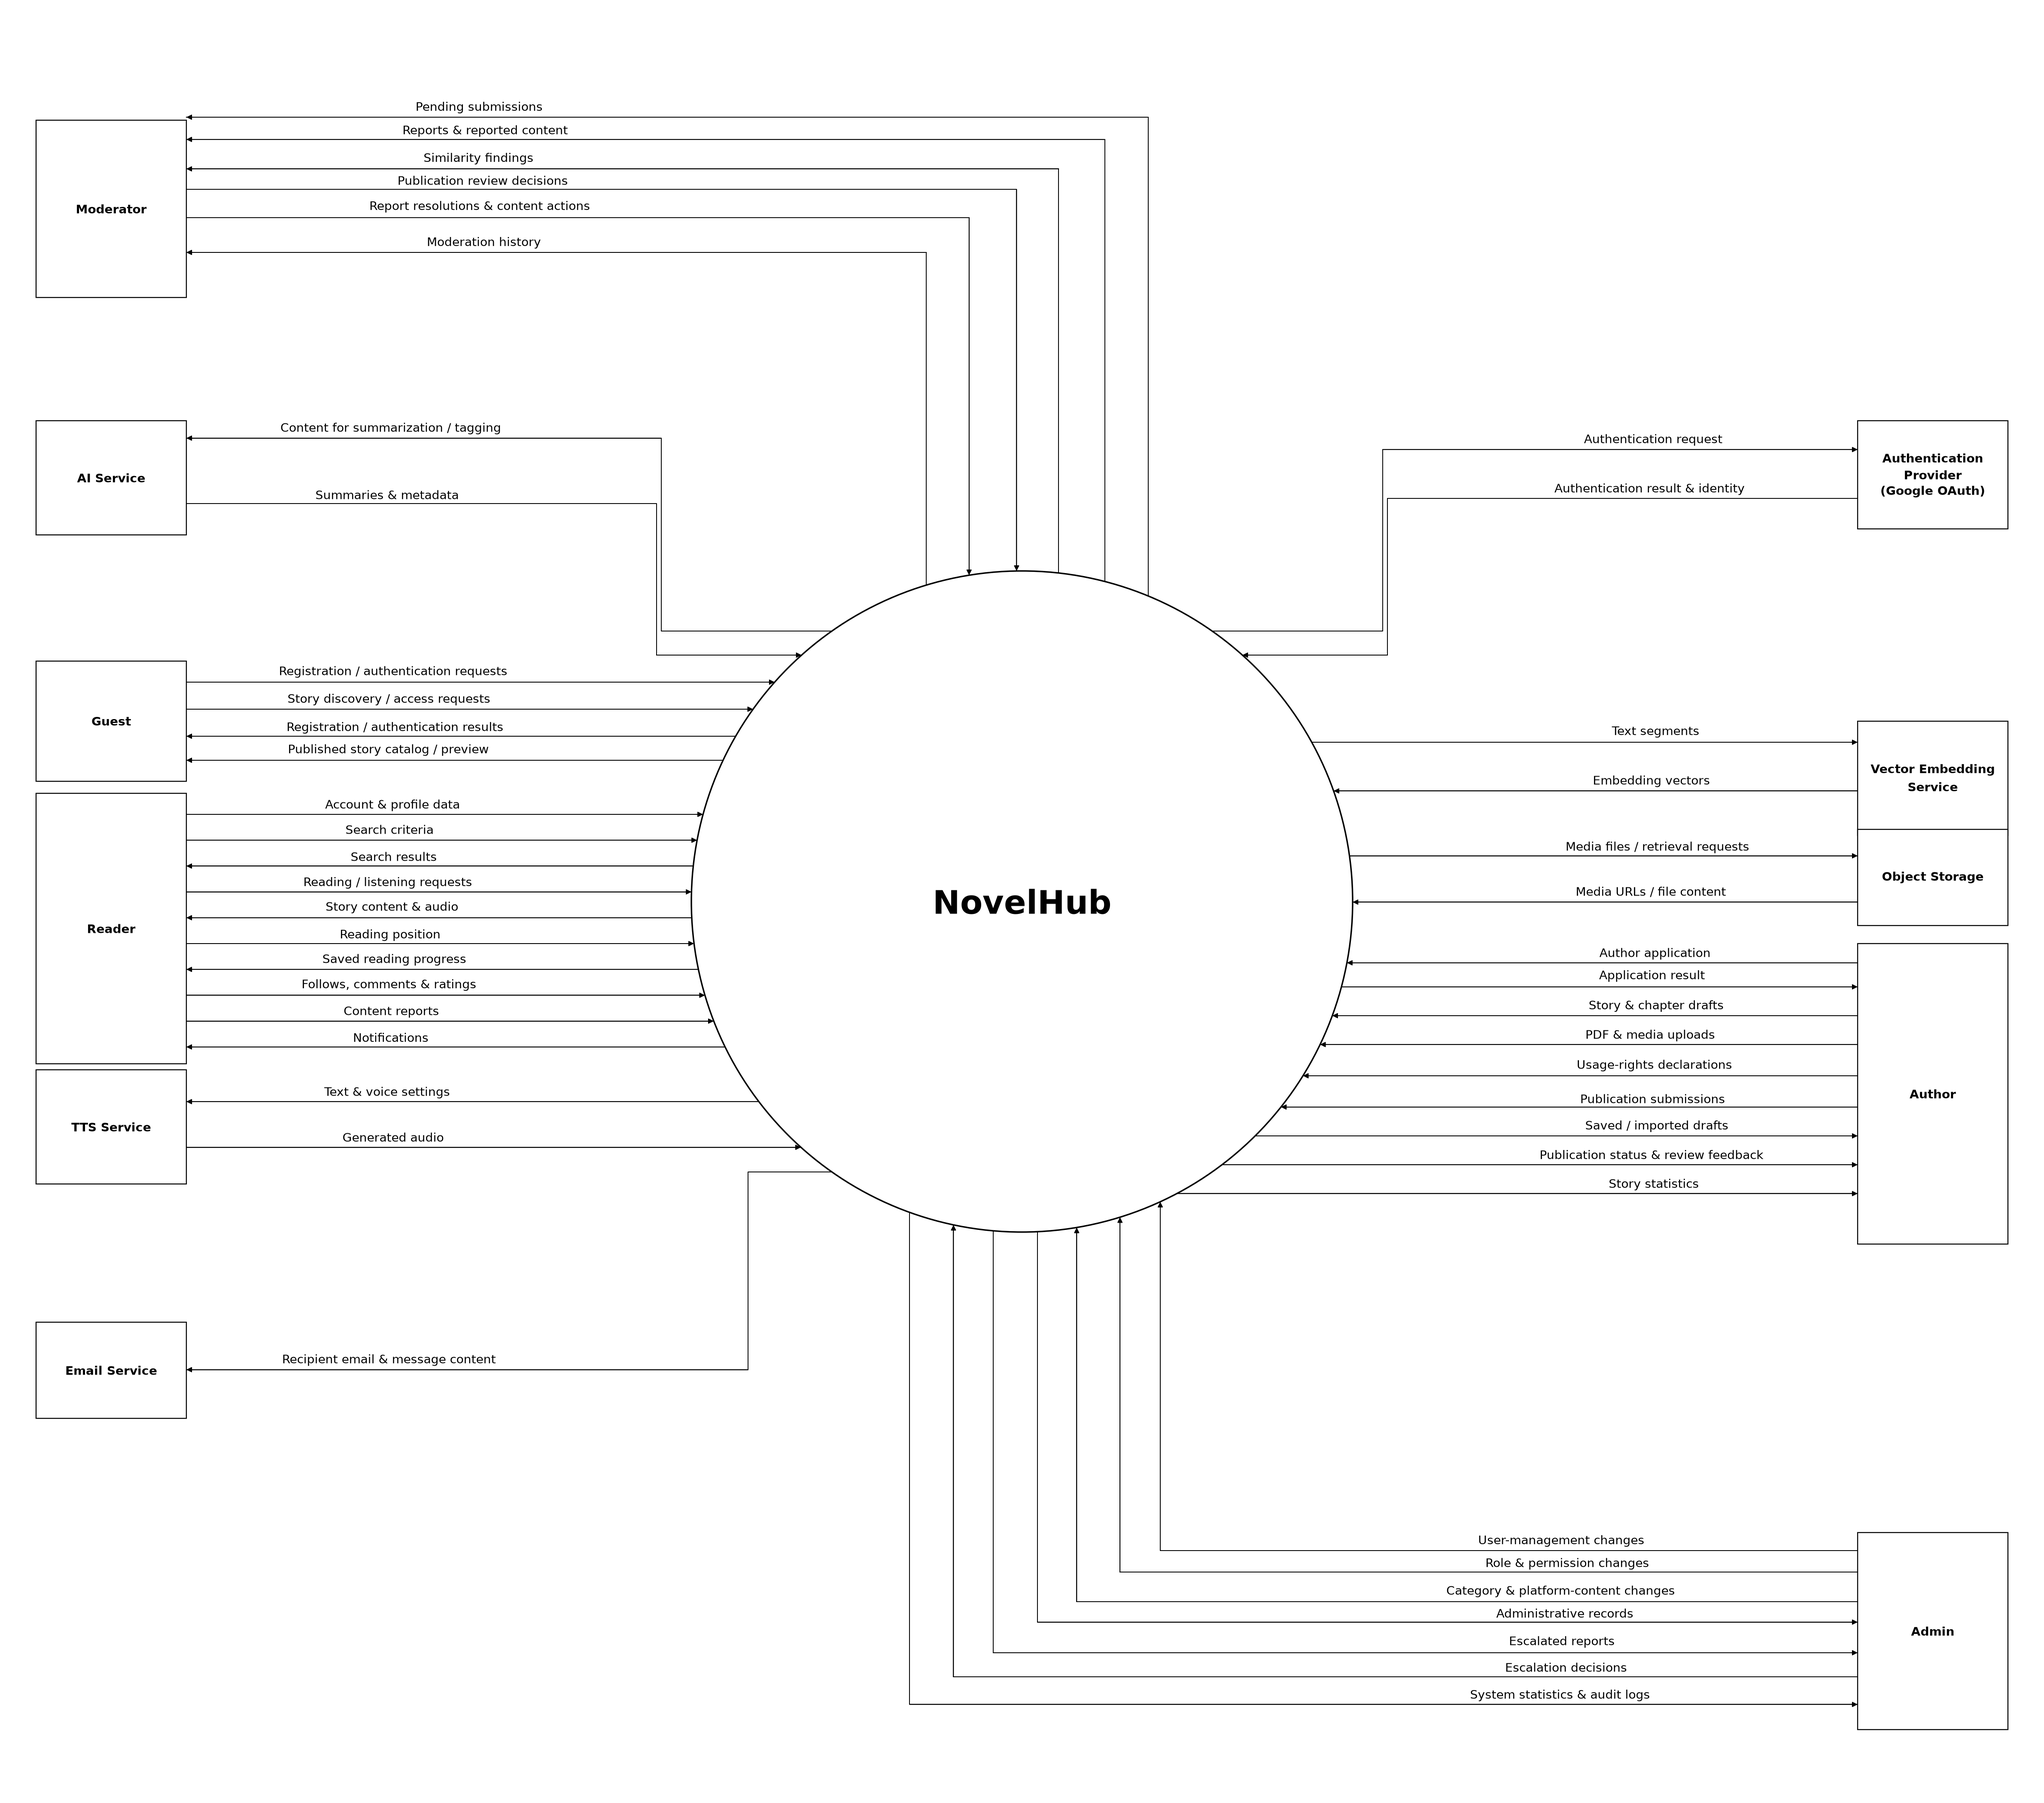
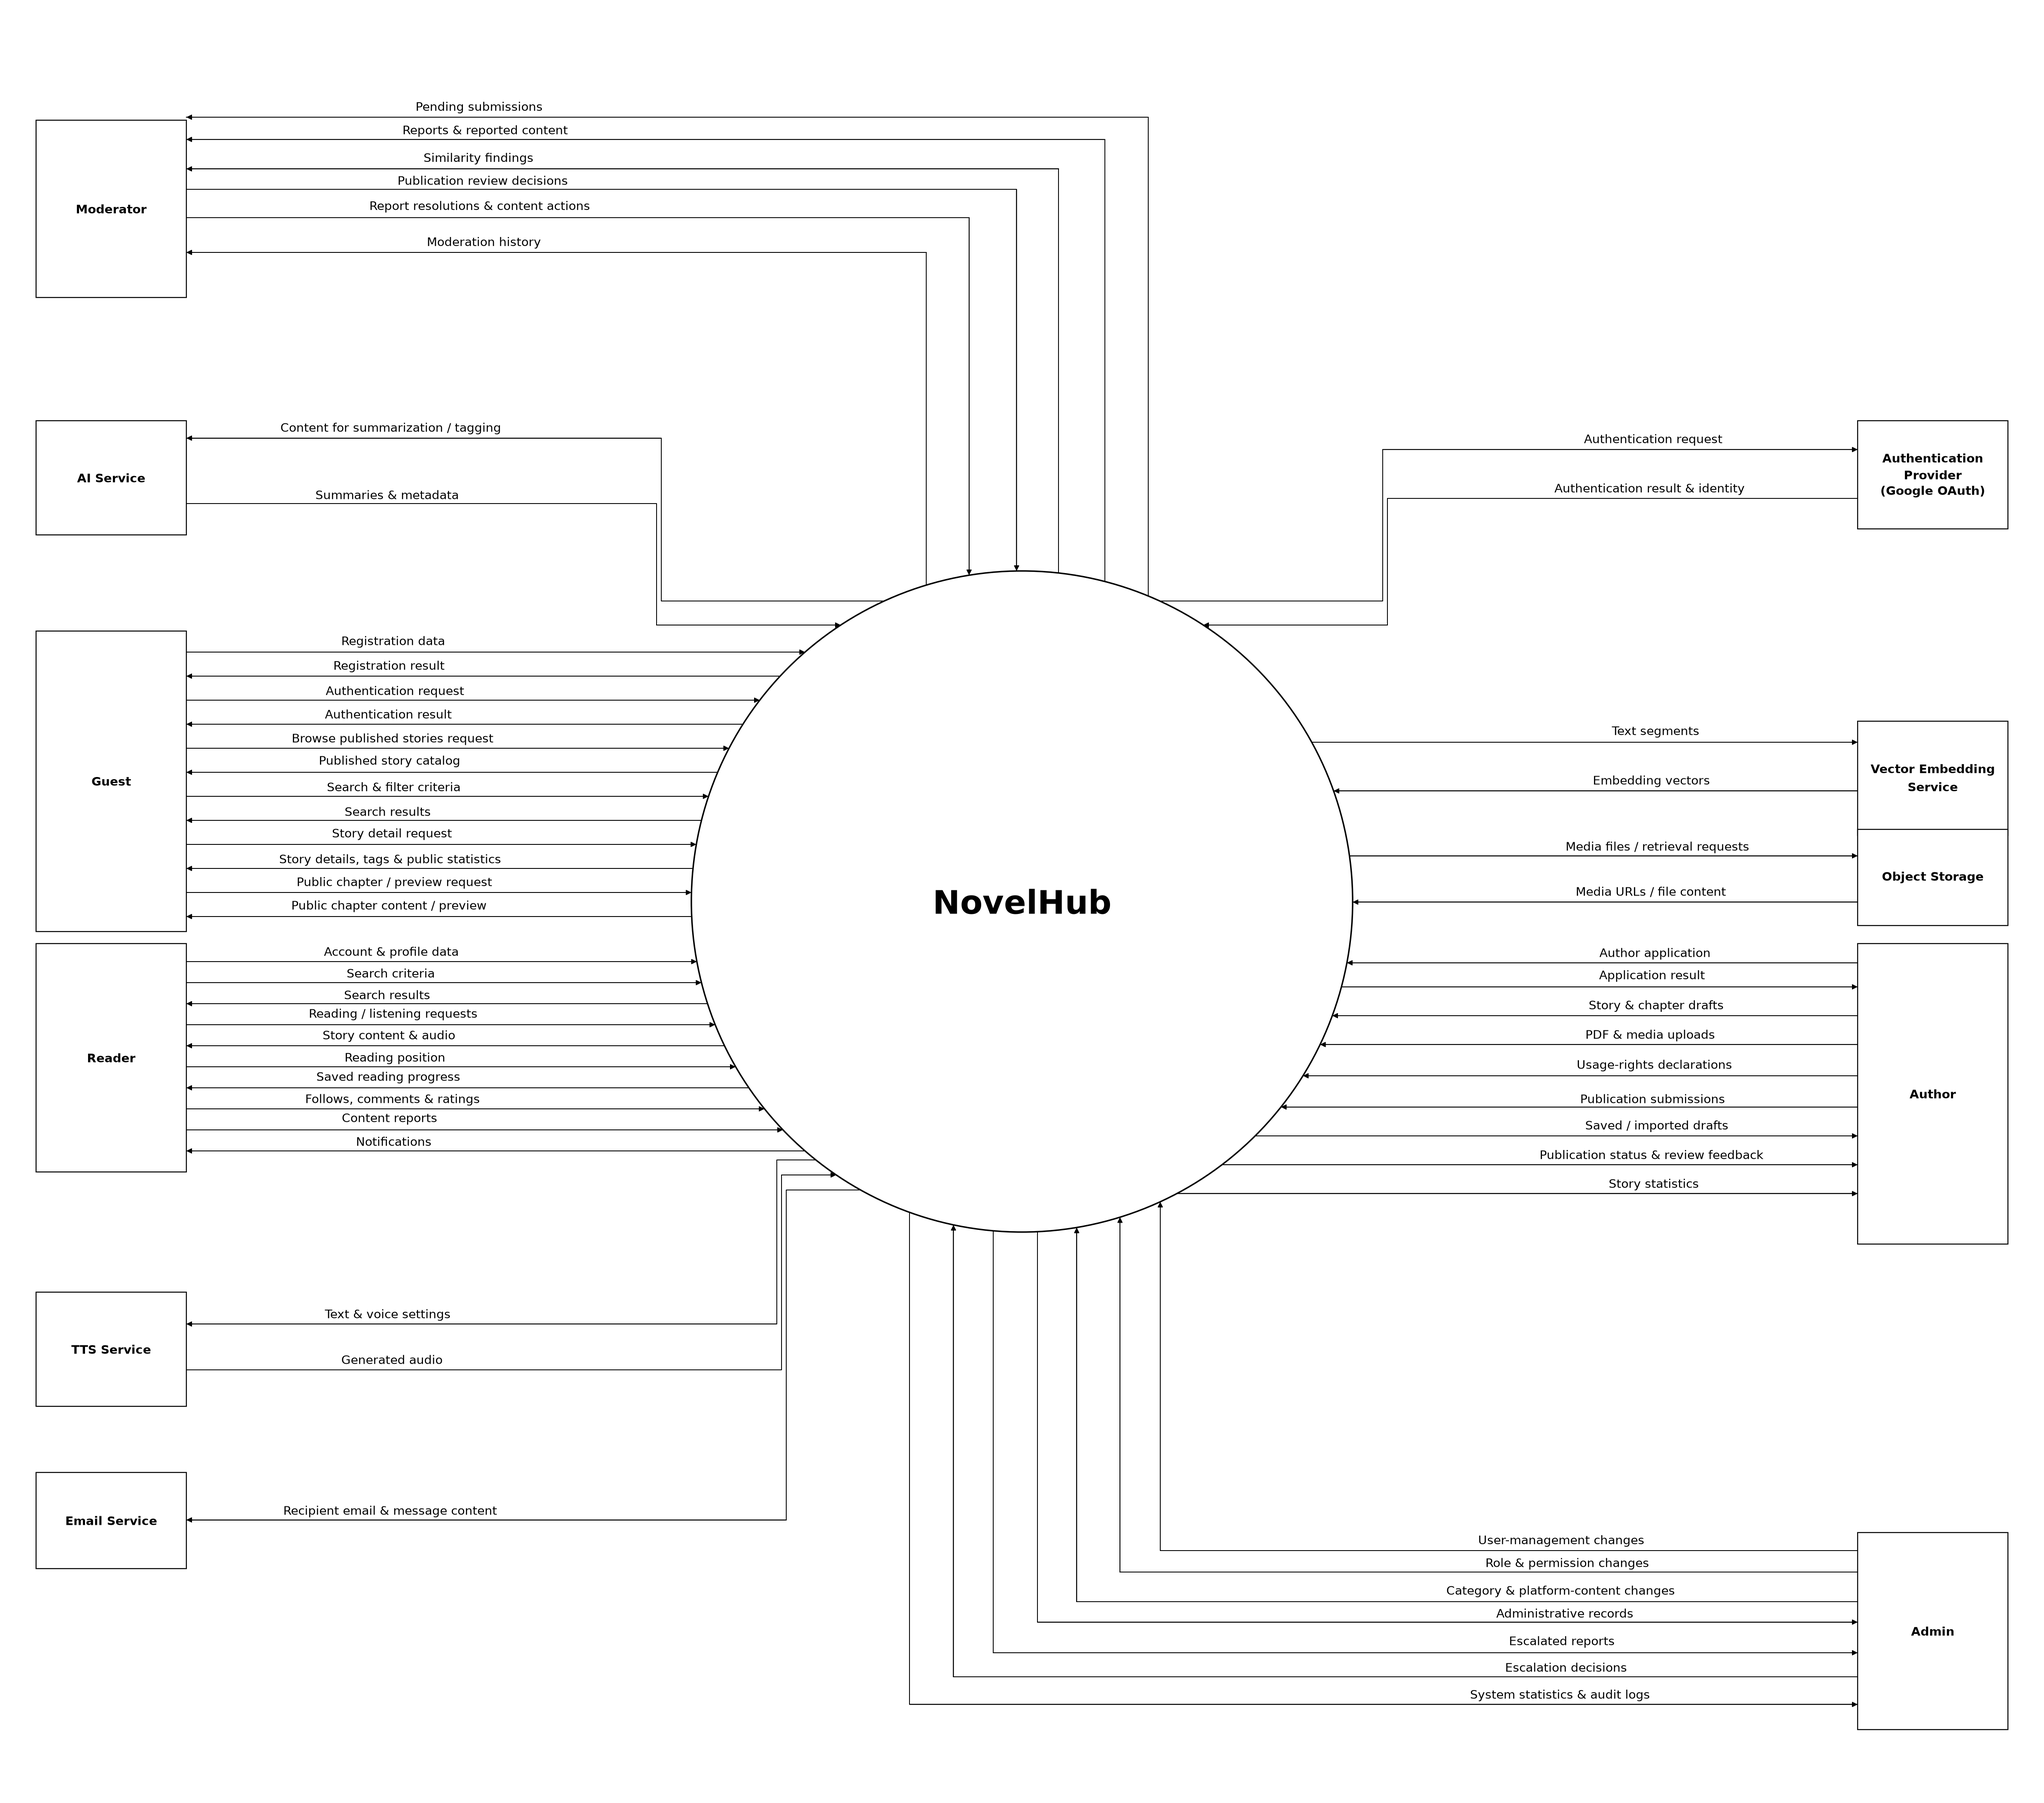
feat(diagram): expand Guest discovery flows

Changed region(s): [[0.1244, 0.3431, 0.2487, 0.655], [0.0311, 0.7486, 0.0622, 0.7798]]

diff --git a/gen_context.py b/gen_context.py
@@ -23,10 +23,18 @@ E={
 ('in','Content reports'),
 ('out','Notifications')]),
 'guest':('Guest','actor',[
-('in','Registration / authentication requests'),
-('in','Story discovery / access requests'),
-('out','Registration / authentication results'),
-('out','Published story catalog / preview')]),
+('in','Registration data'),
+('out','Registration result'),
+('in','Authentication request'),
+('out','Authentication result'),
+('in','Browse published stories request'),
+('out','Published story catalog'),
+('in','Search & filter criteria'),
+('out','Search results'),
+('in','Story detail request'),
+('out','Story details, tags & public statistics'),
+('in','Public chapter / preview request'),
+('out','Public chapter content / preview')]),
 'author':('Author','actor',[
 ('in','Author application'),
 ('out','Application result'),
@@ -64,24 +72,24 @@ E={
 ('out','Content for summarization / tagging'),('in','Summaries & metadata')]),
  'oauth':('Authentication\nProvider\n(Google OAuth)','external',[
 ('out','Authentication request'),('in','Authentication result & identity')])}
-assert sum(len(v[2]) for v in E.values()) == 47
+assert sum(len(v[2]) for v in E.values()) == 55
 boxes={
  'oauth':(3090,700,250,180),
- 'guest':(60,1100,250,200),
- 'reader':(60,1320,250,450),
+ 'guest':(60,1050,250,500),
+ 'reader':(60,1570,250,380),
  'ai':(60,700,250,190),
- 'tts':(60,1780,250,190),
+ 'tts':(60,2150,250,190),
  'embedding':(3090,1200,250,190),
  'storage':(3090,1380,250,160),
  'author':(3090,1570,250,500),
- 'email':(60,2200,250,160),
+ 'email':(60,2450,250,160),
  'moderator':(60,200,250,295),
  'admin':(3090,2550,250,328),
 }
  # Keep side ports inside the circle's vertical span so most connectors stay straight.
 port_offsets={
- 'guest':[35,80,125,165],
- 'reader':[35,78,121,164,207,250,293,336,379,422],
+ 'guest':[35,75,115,155,195,235,275,315,355,395,435,475],
+ 'reader':[30,65,100,135,170,205,240,275,310,345],
  'author':[32,72,120,168,220,272,320,368,416],
  'oauth':[48,129], 'embedding':[35,116], 'storage':[44,121],
  'ai':[29,138], 'tts':[53,129], 'email':[79],
@@ -106,9 +114,9 @@ for names,side in [(['ai','guest','reader','tts','email'],'L'),(['oauth','embedd
  below_pos={j:k for k,j in enumerate(below)}
  for i,f in enumerate(group):
   if i in above_pos:
-   ny=top+100+40*above_pos[i]
+   ny=top+50+40*above_pos[i]
   elif i in below_pos:
-   ny=bottom-100-40*(len(below)-1-below_pos[i])
+   ny=bottom-120+25*below_pos[i]
   else:
    ny=f['ey']
   extent=math.sqrt(R*R-(ny-CY)**2)
